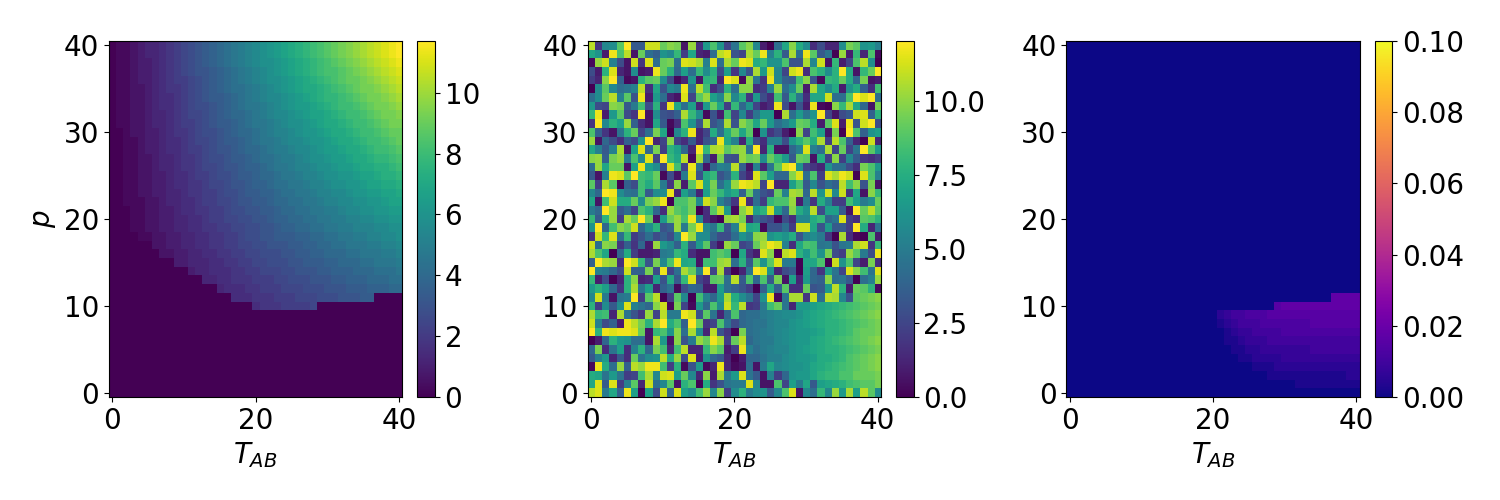
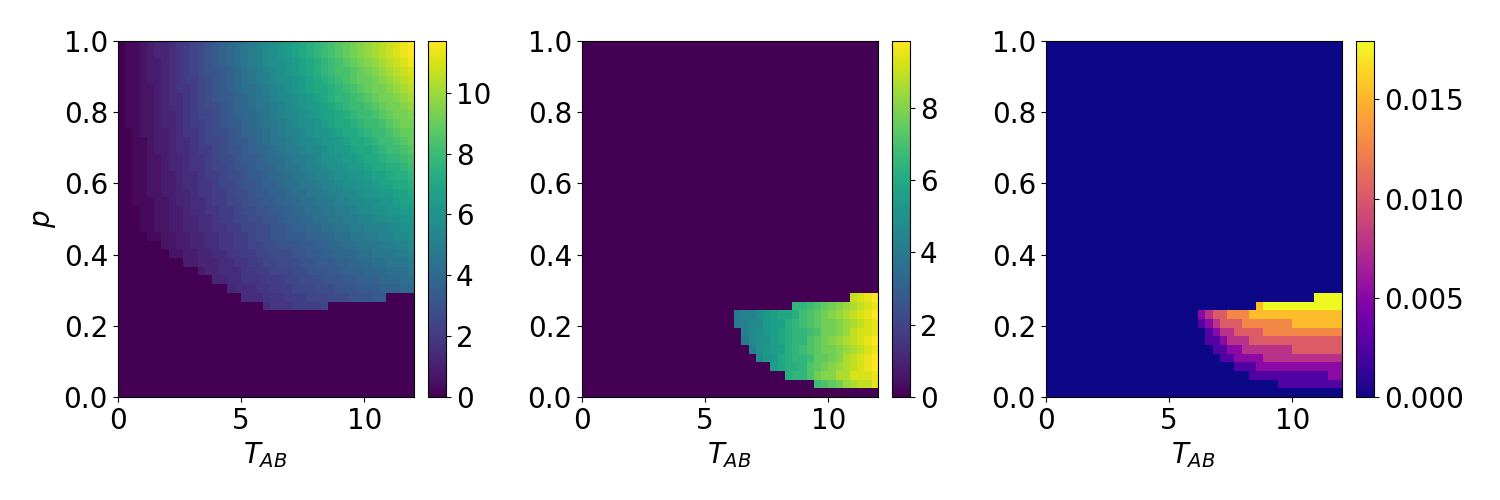
modified code to suit server

diff --git a/3-state_model/plot_evolution.py b/3-state_model/plot_evolution.py
@@ -1,25 +1,34 @@
 import sys
+import argparse
 import numpy as np
 import matplotlib.pyplot as plt
 
 sys.path.append('src')
 from differential_equations import λ_min, δ_max
 
-fig_pop,   ax_pop   = plt.subplots(1, 3, figsize=(11,3))
+parser = argparse.ArgumentParser(description='Competition between N species for tot_cycles cycles.')
+# parser.add_argument('p',   type=float, help='frequency of antibiotics.')
+parser.add_argument('T0',  type=float, help='application time of antibiotics')
+parser.add_argument('Tab', type=float, help='duration of antibiotics')
+args = parser.parse_args()
+
+p_arr = [0.1] #args.p
+T0  = args.T0
+Tab = args.Tab
+T   = T0 + Tab
+
+# fig_pop,   ax_pop   = plt.subplots(1, 3, figsize=(11,3))
 fig_param, ax_param = plt.subplots(1, 3, figsize=(11,3))
 
-p_arr = [0.5]
-T  = 12
-T0 = 0
 
 for p in p_arr:
     λd = np.loadtxt(f"data/competition_average/average_λd-T0_{T0:0.0f}-T_{T:0.0f}-p_{p:0.1f}.txt")
     λr = np.loadtxt(f"data/competition_average/average_λr-T0_{T0:0.0f}-T_{T:0.0f}-p_{p:0.1f}.txt")
     δ  = np.loadtxt(f"data/competition_average/average_δ-T0_{T0:0.0f}-T_{T:0.0f}-p_{p:0.1f}.txt")
 
-    p_dominant = np.loadtxt(f"data/competition_average/dominant_species-T0_{T0:0.0f}-T_{T:0.0f}-p_{p:0.1f}.txt")
-    n_extinct  = np.loadtxt(f"data/competition_average/number_of_extinctions-T0_{T0:0.0f}-T_{T:0.0f}-p_{p:0.1f}.txt")
-    p_dists = np.loadtxt(f"data/competition_average/population_distributions-T0_{T0:0.0f}-T_{T:0.0f}-p_{p:0.1f}.txt")
+    # p_dominant = np.loadtxt(f"data/competition_average/dominant_species-T0_{T0:0.0f}-T_{T:0.0f}-p_{p:0.1f}.txt")
+    # n_extinct  = np.loadtxt(f"data/competition_average/number_of_extinctions-T0_{T0:0.0f}-T_{T:0.0f}-p_{p:0.1f}.txt")
+    # p_dists = np.loadtxt(f"data/competition_average/population_distributions-T0_{T0:0.0f}-T_{T:0.0f}-p_{p:0.1f}.txt")
 
     ########################
     ## Average parameters ##
@@ -35,14 +44,14 @@ for p in p_arr:
     ## Antibiotic parameters ##
     ###########################
     # fig_pop, ax_pop = plt.subplots(1, 3, figsize=(11,3))
-    ax_pop[0].plot(p_dominant, label=f"p={p:0.1}")
-    for i in range(len(p_dists[0])):
-        ax_pop[1].plot(p_dists[:,i], label=f"{i}")
-    ax_pop[2].plot(n_extinct,  label=f"p={p:0.1}")
+    # ax_pop[0].plot(p_dominant, label=f"p={p:0.1}")
+    # for i in range(len(p_dists[0])):
+    #     ax_pop[1].plot(p_dists[:,i], label=f"{i}")
+    # ax_pop[2].plot(n_extinct,  label=f"p={p:0.1}")
 
     #ax_pop[1].set(xscale="log", yscale="log", ylim=(0.01, 2))
 
-ax_pop[1].legend()
+# ax_pop[1].legend()
 # for i in range(3):
 #     ax_param[i].legend()
 #     ax_pop[i].legend()
@@ -58,5 +67,5 @@ ax_param[2].set(ylim=[0, δ_max], yscale="linear")
 fig_param.tight_layout()
 fig_param.savefig(f"figs/competition_average/average_parameters-T0_{T0:0.0f}-T_{T:0.0f}-p_{p:0.1f}.png")
 
-fig_pop.tight_layout()
-fig_pop.savefig(f"figs/competition_average/populations-T0_{T0:0.0f}-T_{T:0.0f}-p_{p:0.1f}.png")
+# fig_pop.tight_layout()
+# fig_pop.savefig(f"figs/competition_average/populations-T0_{T0:0.0f}-T_{T:0.0f}-p_{p:0.1f}.png")

diff --git a/3-state_model/plot_heatmap_constant_T0.py b/3-state_model/plot_heatmap_constant_T0.py
@@ -4,11 +4,12 @@ import matplotlib as mpl
 import matplotlib.pyplot as plt
 
 sys.path.append("src")
-from differential_equations import n0, S0, f, n_min, λ_min, δ_max, p_max
+from differential_equations import S0, f, p_min, λ_min, δ_max
 
+T_min = 0
+T_max = 12
 
-font = {'family': 'Times New Roman',
-        'weight': 'normal',
+font = {'weight': 'normal',
         'size': 20}
 mpl.rc('font', **font)
 
@@ -18,9 +19,9 @@ mpl.rc('font', **font)
 #importing data 
 data = sys.argv[1]
 
-λd_opt = np.loadtxt(f'data/optimal_λd-T0_{data}')
-λr_opt = np.loadtxt(f'data/optimal_λr-T0_{data}')
-δ_opt  = np.loadtxt(f'data/optimal_δ-T0_{data}')
+λd_opt = np.loadtxt(f'data/single_optimal/optimal_λd-T0_{data}')
+λr_opt = np.loadtxt(f'data/single_optimal/optimal_λr-T0_{data}')
+δ_opt  = np.loadtxt(f'data/single_optimal/optimal_δ-T0_{data}')
 
 # arrays for scaling imshow
 #T = np.outer(np.ones_like(Tab), Tab) + np.outer(np.ones_like(T0), T0)
@@ -37,10 +38,10 @@ ax[0].set(xlabel=r'$T_{AB}$', ylabel=r"$p$")#, title=r"$\lambda^*$")
 ax[1].set(xlabel=r'$T_{AB}$')#, ylabel=r"$p$")#, title=r"$\lambda^*$")
 ax[2].set(xlabel=r'$T_{AB}$')#, ylabel=r"$p$")#, title=r"$\delta^*$")
 
-im0 = ax[0].imshow(λd_opt, origin="lower", cmap=λ_cmap, aspect="auto", vmin=0) #, extent=[T_arr.min(), T_arr.max(), 0, p_max])
-im1 = ax[1].imshow(λr_opt * (δ_opt > 0), origin="lower", cmap=λ_cmap, aspect="auto", vmin=0) #, extent=[T_arr.min(), T_arr.max(), 0, p_max])
-im2 = ax[2].imshow(δ_opt,  origin="lower", cmap=δ_cmap, aspect="auto", vmin=0, vmax=δ_max) #, extent=[T_arr.min(), T_arr.max(), 0, p_max])
-#im2 = ax[2].imshow(δ_opt,  origin="lower", norm=mpl.colors.LogNorm(vmin=10**(-6), vmax=δ_max, clip=False), cmap=δ_cmap, aspect="auto", extent=[T_arr.min(), T_arr.max(), 0, p_max])
+im0 = ax[0].imshow(λd_opt, origin="lower", cmap=λ_cmap, aspect="auto", vmin=0, extent=[T_min, T_max, 0, 1])
+im1 = ax[1].imshow(λr_opt * (δ_opt > 0), origin="lower", cmap=λ_cmap, aspect="auto", vmin=0, extent=[T_min, T_max, 0, 1])
+im2 = ax[2].imshow(δ_opt,  origin="lower", cmap=δ_cmap, aspect="auto", extent=[T_min, T_max, 0, 1])
+#im2 = ax[2].imshow(δ_opt,  origin="lower", norm=mpl.colors.LogNorm(vmin=10**(-6), vmax=δ_max, clip=False), cmap=δ_cmap, aspect="auto", extent=[T_arr.min(), T_arr.max(), 0, 1])
 
 # Colorbars
 cbar = fig.colorbar(im0, ax=ax[0], aspect=20, anchor=(-.1, 0.5))
@@ -53,4 +54,4 @@ cbar = fig.colorbar(im2, ax=ax[2], aspect=20, anchor=(-.1, 0.5))
 
 # saving
 fig.tight_layout()
-fig.savefig(f"figs/optimal_heatmap_T0_{data}.png", dpi=100)
+fig.savefig(f"figs/single_optimal/optimal_heatmap_T0_{data}.png", dpi=100)

diff --git a/3-state_model/main_evolution.py b/3-state_model/main_evolution.py
@@ -5,7 +5,7 @@ import numpy as np
 sys.path.append('src')
 from initialization import initialize_bacterial_parameter_arrays, initialise_system
 from evolution import evolve_system
-from test_plots import *
+# from test_plots import *
 
 parser = argparse.ArgumentParser(description='Competition between N species for tot_cycles cycles.')
 parser.add_argument('p',   type=float, help='frequency of antibiotics.')
@@ -55,7 +55,7 @@ bac_params['Ɛ'] = Ɛ
 
 populations = initialise_system(bac_params, sim_params)
 λd, λr, δ, p_dominant, n_extinct, p_dists, cycles = evolve_system(populations, bac_params, ab_params, sim_params)
-plot_cycles(cycles, bac_params, ab_params, sim_params)
+# plot_cycles(cycles, bac_params, ab_params, sim_params)
 
 np.savetxt(f"data/competition_average/average_λd-T0_{T0:0.0f}-T_{T:0.0f}-p_{p:0.1f}.txt", λd)
 np.savetxt(f"data/competition_average/average_λr-T0_{T0:0.0f}-T_{T:0.0f}-p_{p:0.1f}.txt", λr)

diff --git a/3-state_model/src/evolution.py b/3-state_model/src/evolution.py
@@ -1,5 +1,5 @@
 import numpy as np
-from tqdm import tqdm
+# from tqdm import tqdm
 from scipy.integrate import solve_ivp
 
 from differential_equations import S0, f, p_min, dt_max, Ts_max
@@ -164,7 +164,7 @@ def evolve_system(p_t, bac_params, ab_params, sim_params):
     time = []
 
     # looping through cycles
-    for ic in tqdm(range(tot_cycles)):
+    for ic in range(tot_cycles):
         p_t, n_dead, sol_cycle = solve_cycle(p_t, r_arr[ic], bac_params, ab_params, sim_params)
         substrate.append(sol_cycle[2])
         species.append(sol_cycle[1][:N] + sol_cycle[1][N:2*N] + sol_cycle[1][2*N:3*N])
@@ -183,5 +183,7 @@ def evolve_system(p_t, bac_params, ab_params, sim_params):
         n_extinct[ic]  = n_dead
         p_dists[ic]    = d_t / sum(d_t)
         
+        print(ic / tot_cycles)
+
     return λd_avrg, λr_avrg, δ_avrg, p_dominant, n_extinct, p_dists, [species, substrate, time]
    

diff --git a/3-state_model/main_single_species_constant_T0.py b/3-state_model/main_single_species_constant_T0.py
@@ -81,7 +81,7 @@ for p in p_arr:
         fitness = analytical_fitness(eq_params, ab_params)
         optimal_params = transform_fitness_to_bac_parameters(fitness, bac_params)
         
-        F_max[i,j] = optimal_params[0]
+        F_max[i,j]  = optimal_params[0]
         λd_opt[i,j] = optimal_params[1][0]
         λr_opt[i,j] = optimal_params[2][0]
         δ_opt[i,j]  = optimal_params[3][0]
